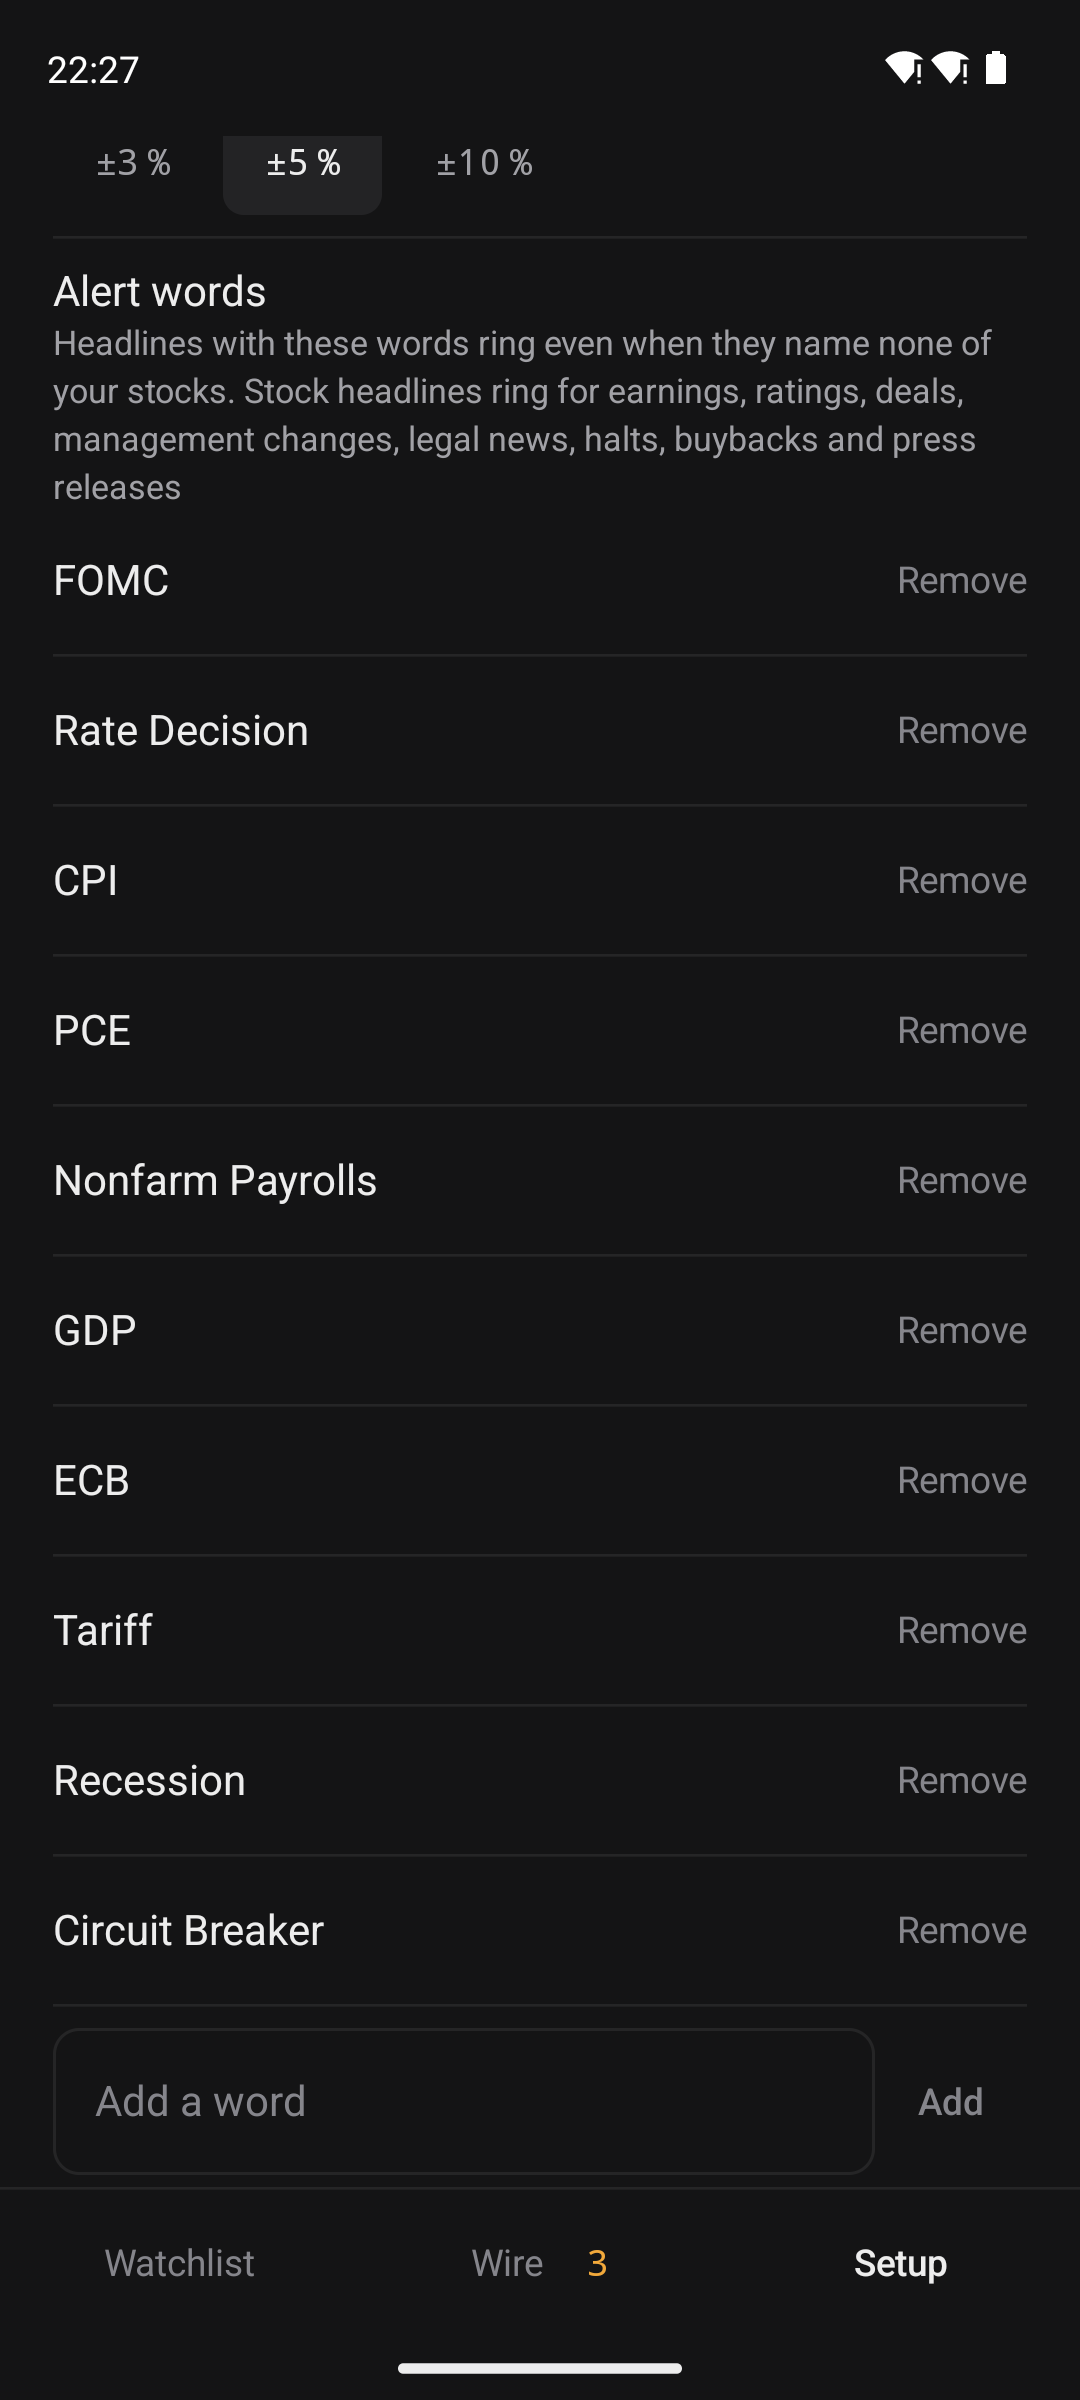
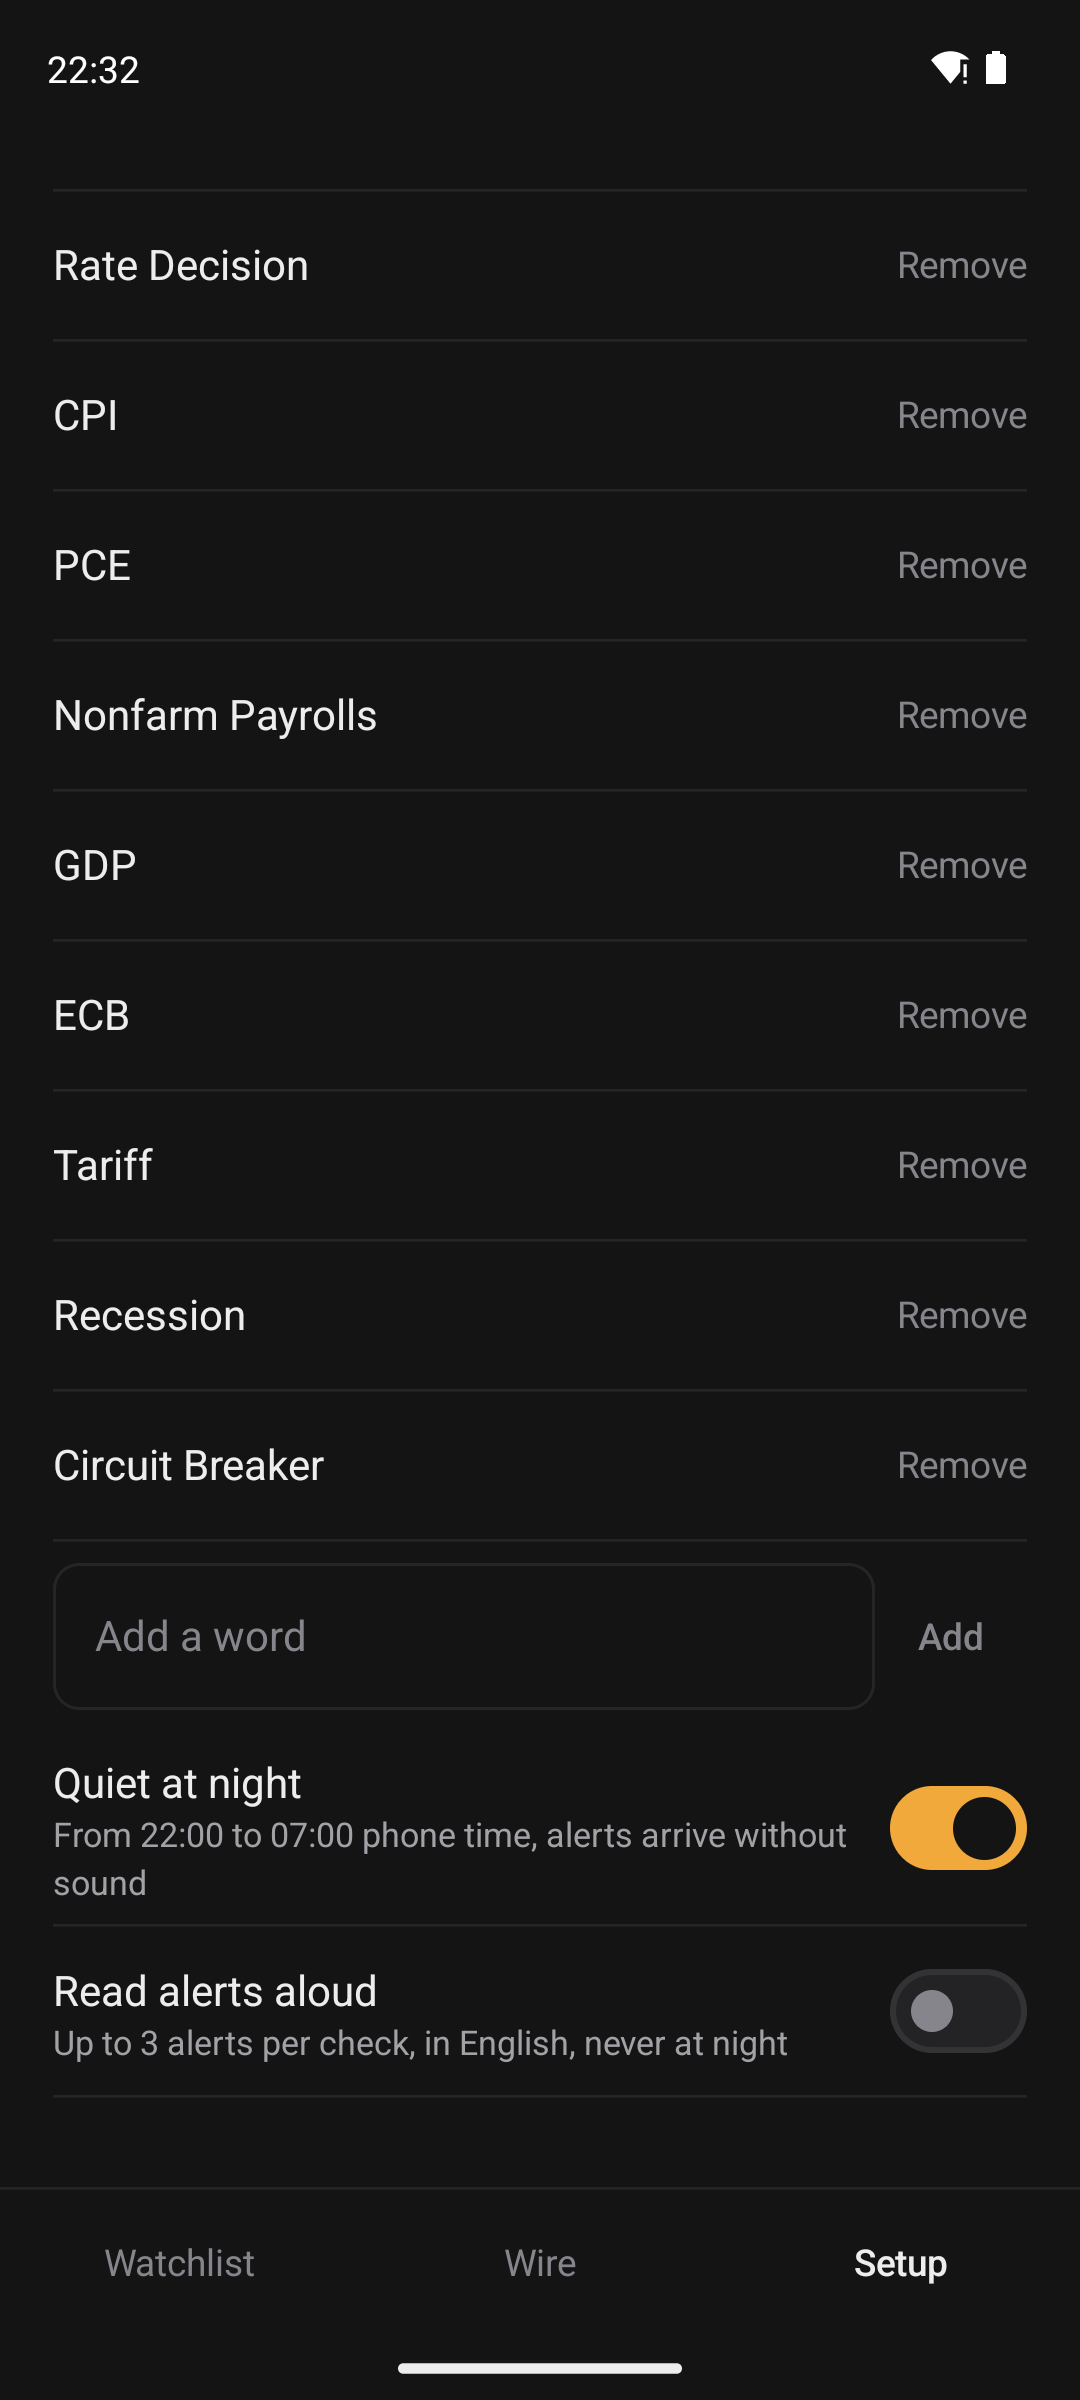
README: Screenshots aus dem Release-Build v0.2.1

diff --git a/README.md b/README.md
@@ -19,7 +19,7 @@
 <p align="center">
   <img src="docs/bilder/1-watchlist.png" width="250" alt="Watchlist: headlines that name the stocks you follow, newest first, with an amber clock on those under 10 minutes old">
   <img src="docs/bilder/2-wire.png" width="250" alt="Wire: market headlines from FinancialJuice as they come in">
-  <img src="docs/bilder/3-setup.png" width="250" alt="Setup: stocks added by symbol or company name, market feeds with on/off switches">
+  <img src="docs/bilder/3-setup.png" width="250" alt="Setup: alert words for market headlines, quiet hours at night and reading alerts aloud">
 </p>
 
 <p align="center">
